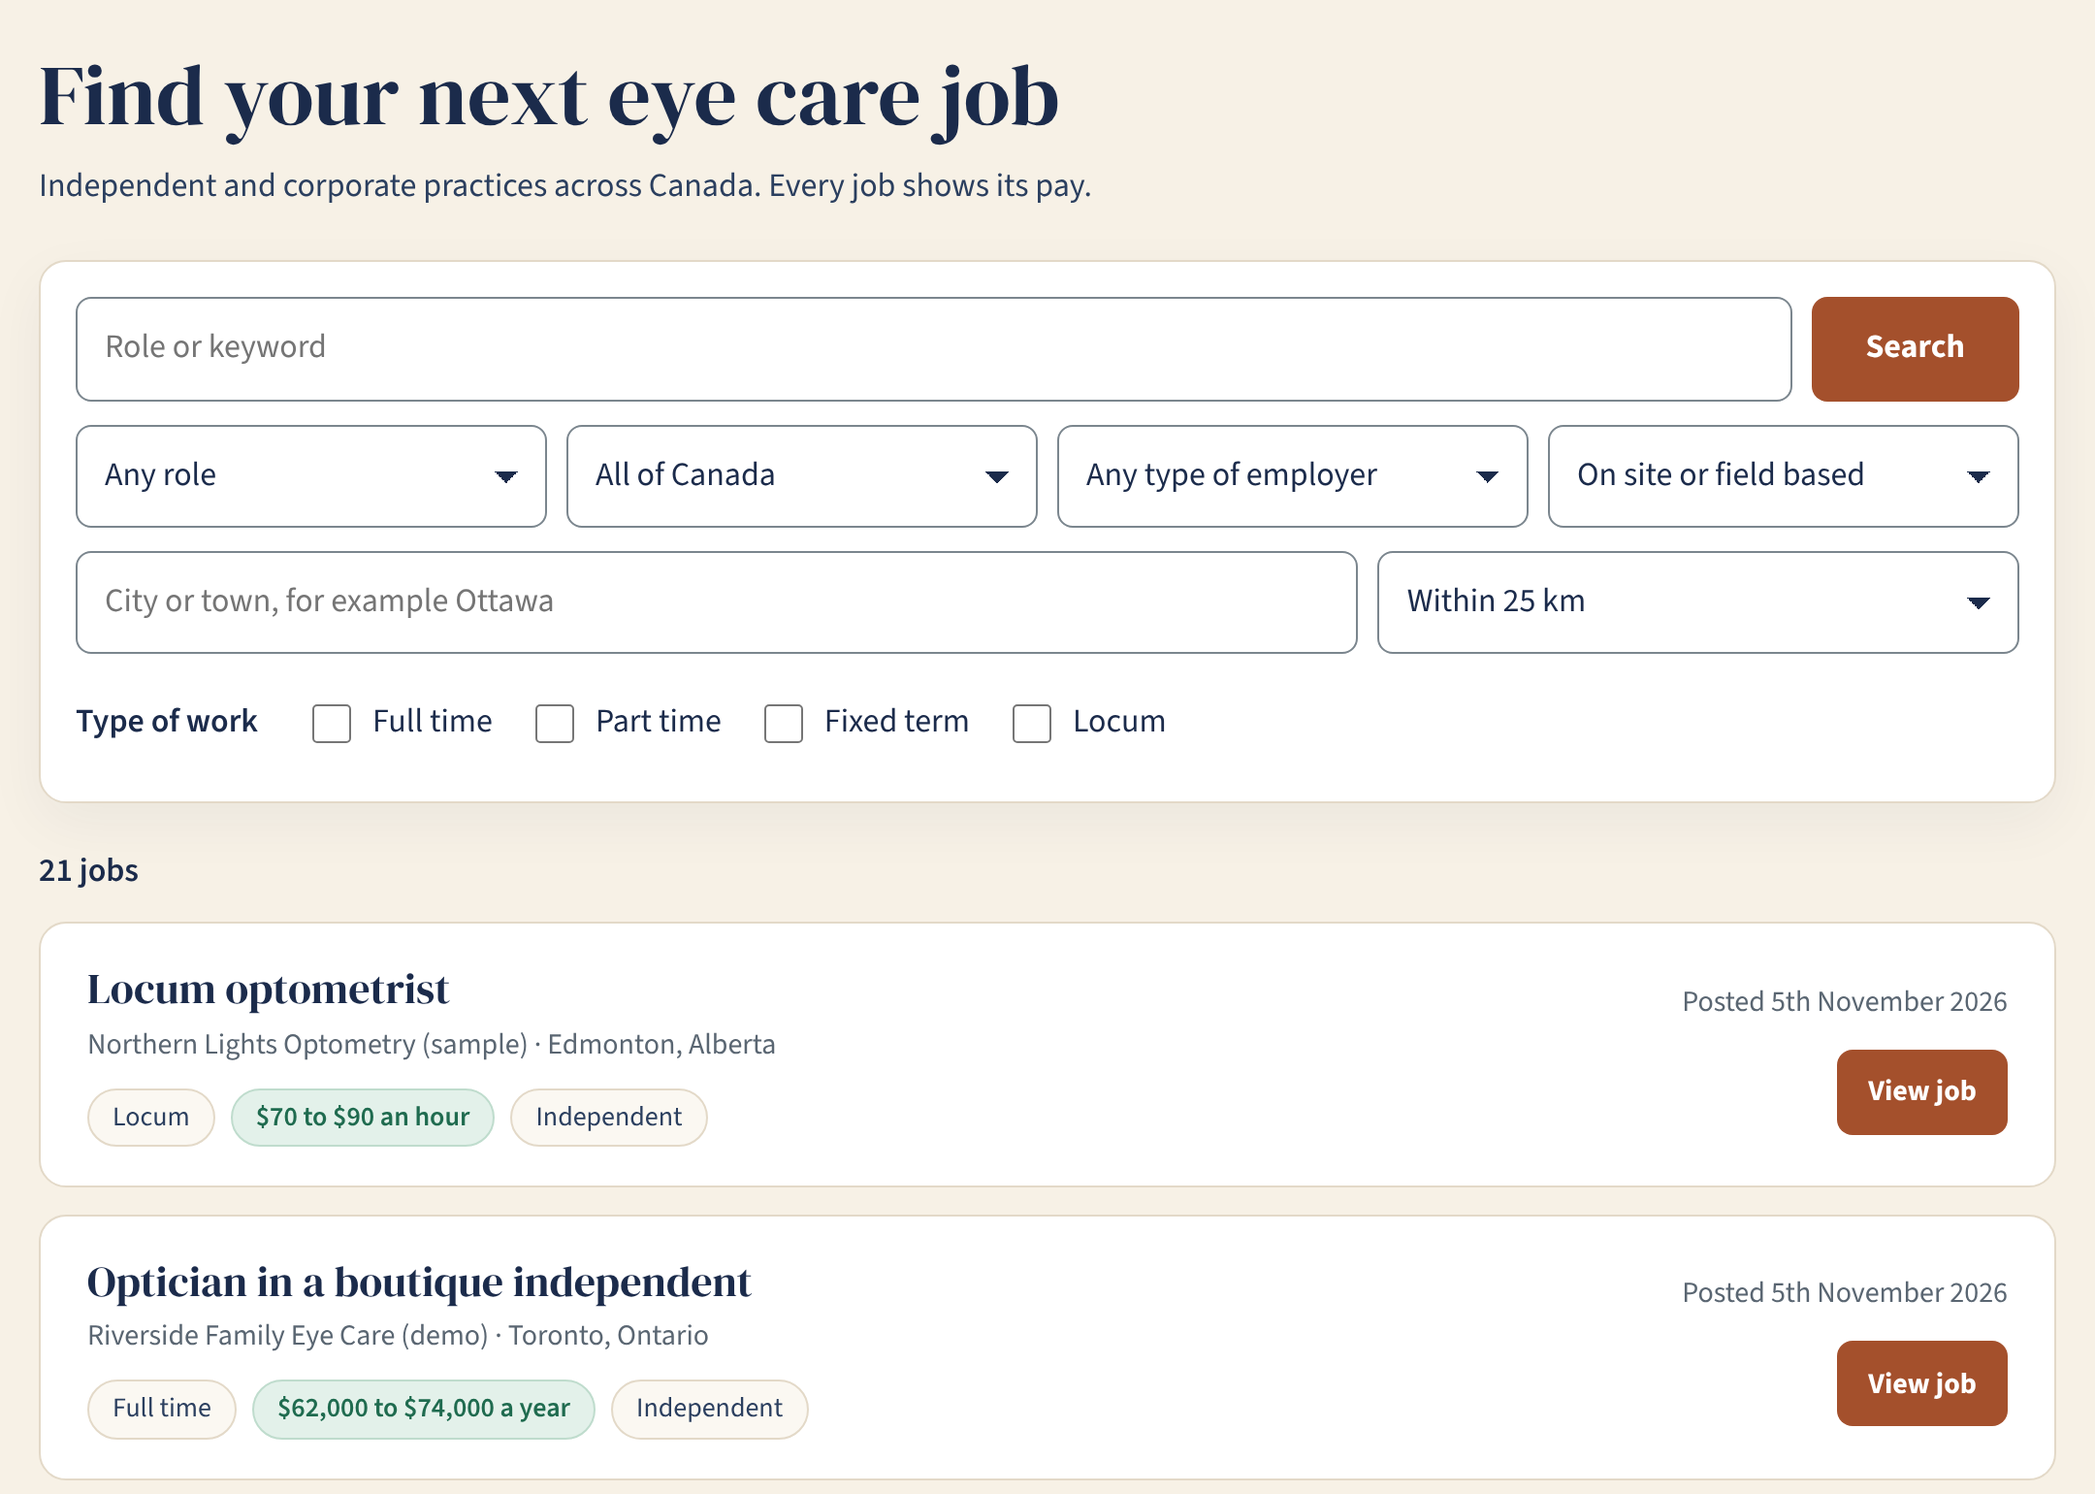
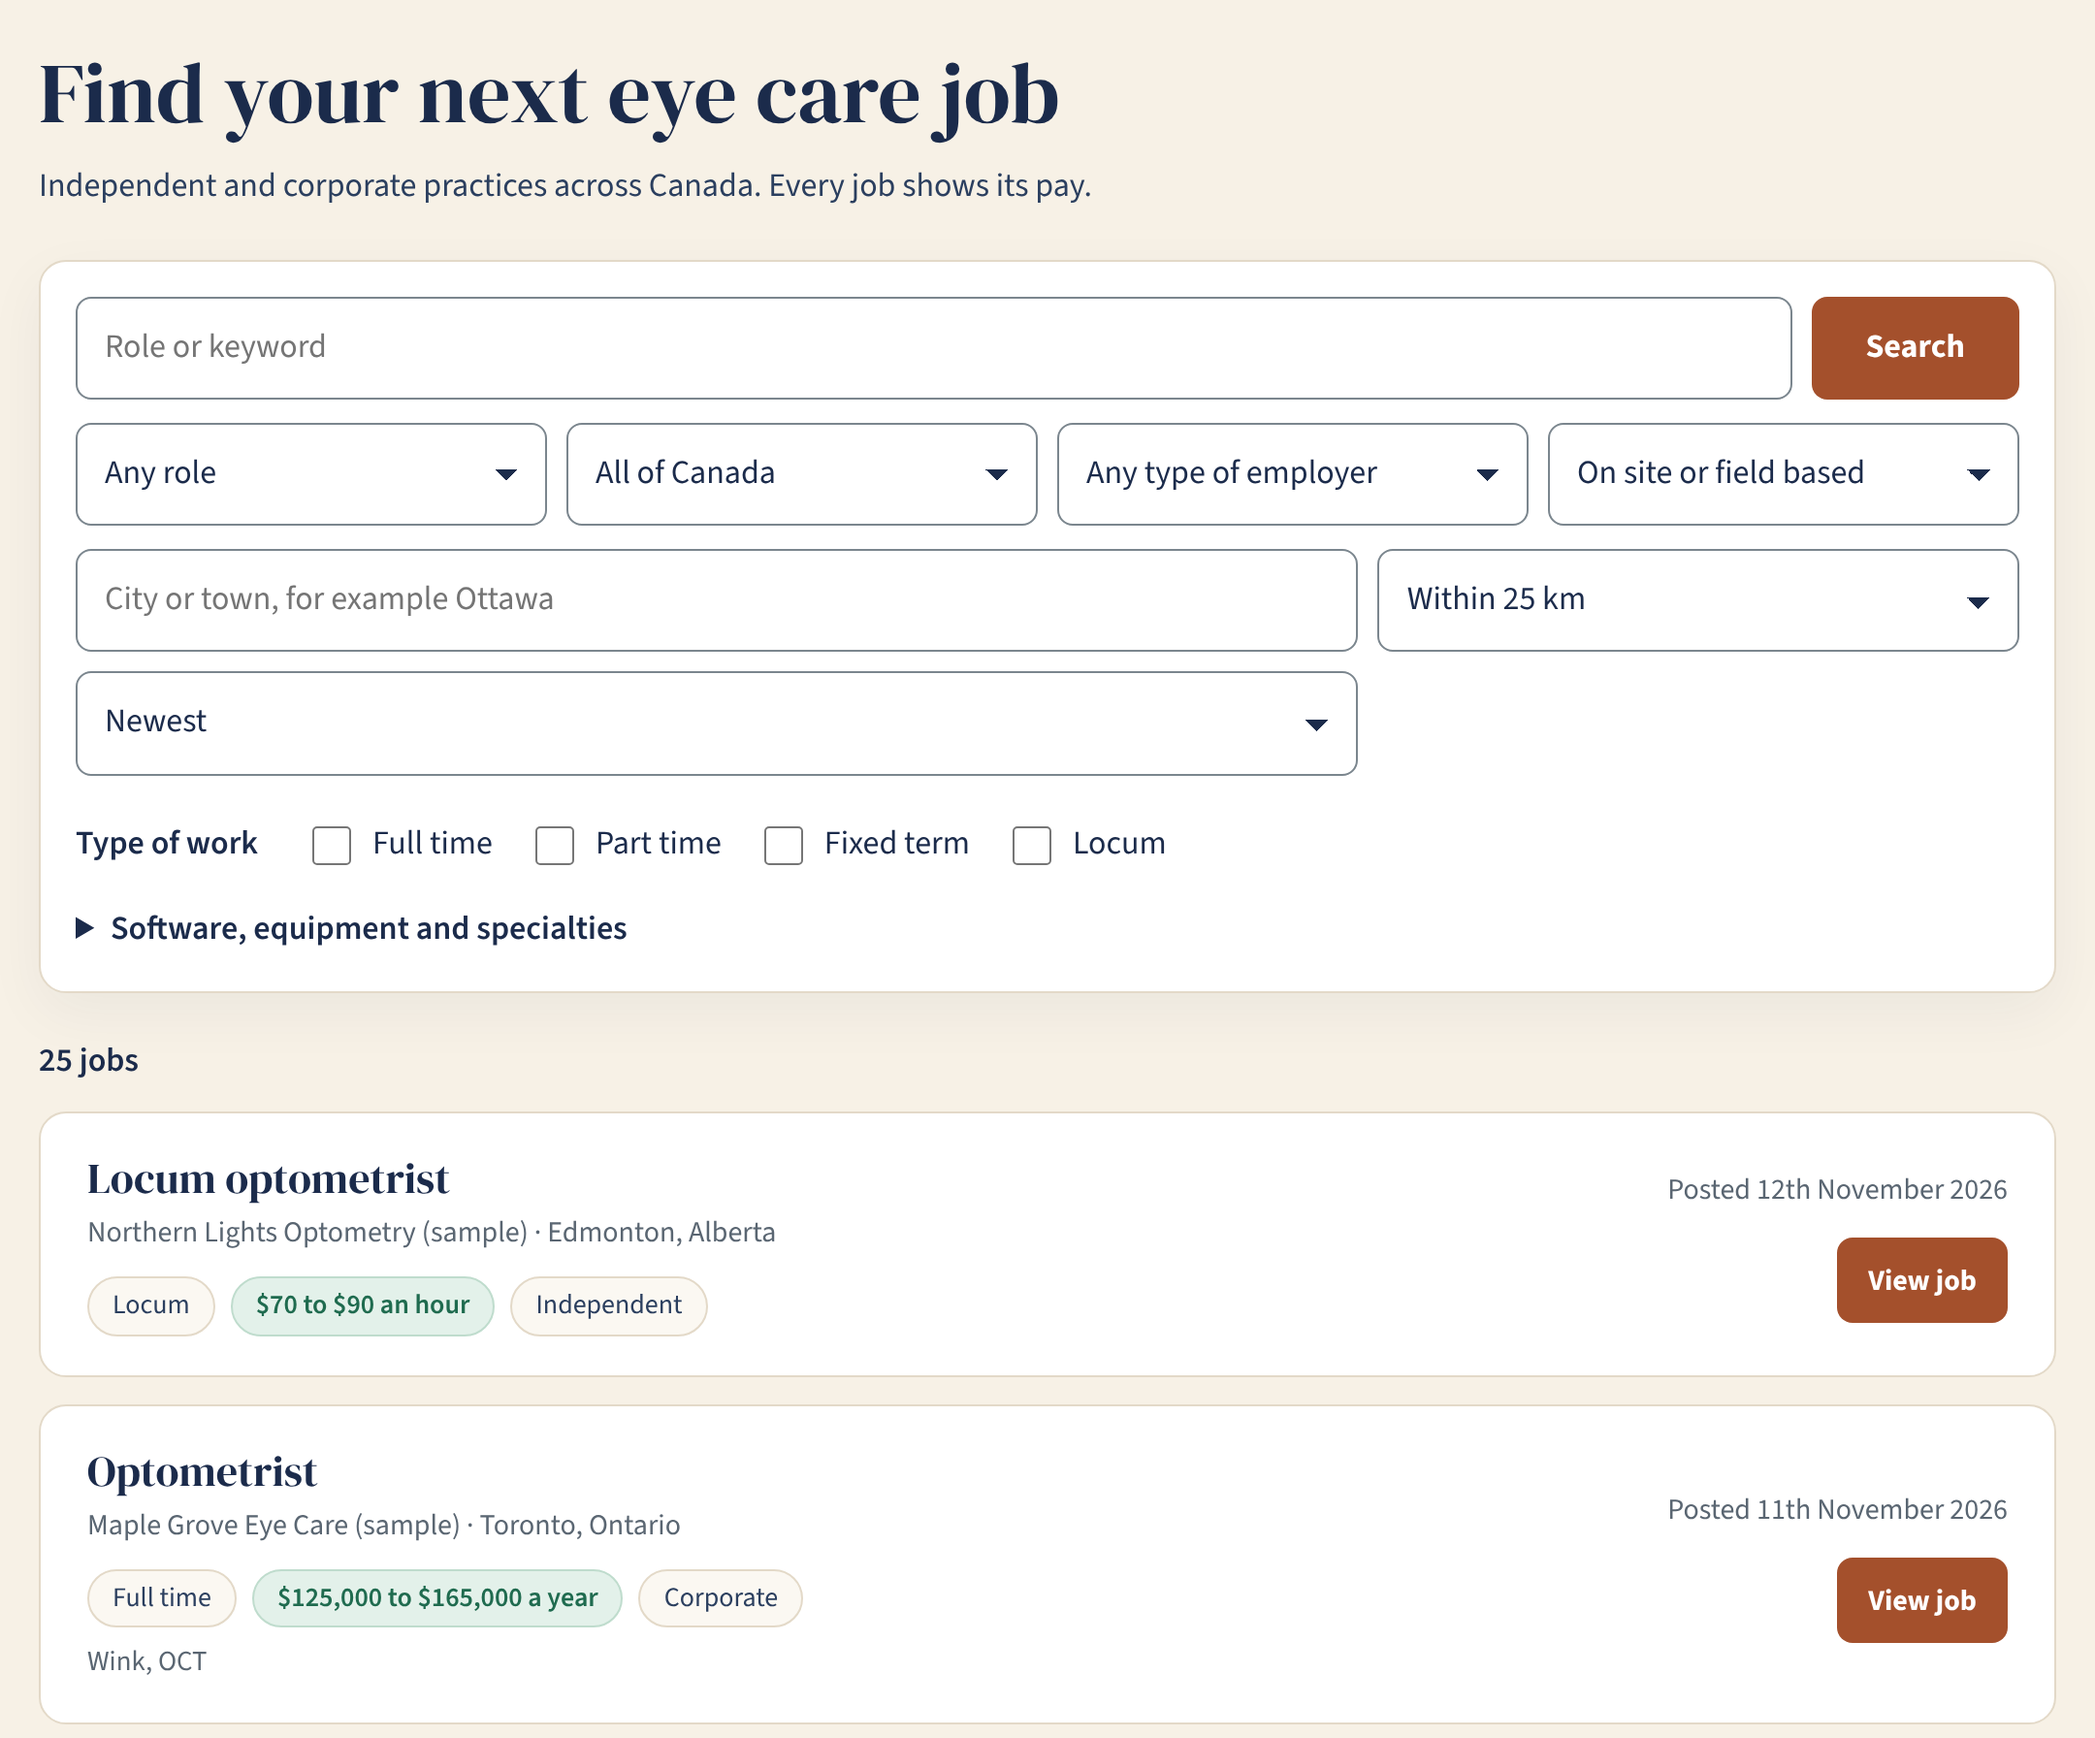
Remove 26 small brown headings that only repeated the page name; report links grouped on the job page; new home page search picture
Kept in brown where they carry information: clinic name, the job a page is about, home page audience labels, tile labels.

Claude-Session: https://claude.ai/code/session_01K4dgNP3jRUzwbDJ37u66dM

Changed region(s): [[0.0, 0.5299, 0.9926, 0.9662], [0.0, 0.0312, 0.9926, 0.4987], [0.8685, 0.9039, 0.9616, 0.9662]]

diff --git a/components/PreLaunchHome.tsx b/components/PreLaunchHome.tsx
@@ -33,7 +33,7 @@ export default function PreLaunchHome() {
             <p className="lh-shotslede">Search by role, province, type of employer and distance, then see the pay before you open a job. These are sample screens with sample clinics and jobs. Real jobs take their place when Kestrel opens.</p>
             <div className="lh-shotgrid">
               <figure>
-                <Image src="/home/sample-search.png" alt="The Kestrel job search page, with a search box, filters for role, province, employer type, city and distance, and the first jobs listed with their pay." width={2160} height={1540} sizes="(max-width: 860px) 100vw, 620px" />
+                <Image src="/home/sample-search.png" alt="The Kestrel job search page, with a search box, filters for role, province, employer type, city and distance, and the first jobs listed with their pay." width={2160} height={1792} sizes="(max-width: 860px) 100vw, 620px" />
                 <figcaption>Search and filter. Every job card shows its pay.</figcaption>
               </figure>
               <figure>

diff --git a/app/help/page.tsx b/app/help/page.tsx
@@ -29,7 +29,6 @@ export default async function Help() {
       <script type="application/ld+json" dangerouslySetInnerHTML={{ __html: JSON.stringify(helpFaqJsonLd(HELP)).replace(/</g, "\\u003c") }} />
       <main id="main" tabIndex={-1} className="app">
         <div className="wrap narrow">
-          <p className="kicker">Help centre</p>
           <h1>Help for people using Kestrel</h1>
           <p className="lede2">Short answers and step by step guides for candidates and clinics who have an account. Open a heading to read it. Looking for hiring advice? Try the <Link href="/blog">blog</Link>. Cannot find what you need? <Link href="/contact">Contact us</Link>.</p>
           {!open && <p className="note">Kestrel is opening soon. These answers describe how it works once you have an account.</p>}

diff --git a/app/jobs/[id]/page.tsx b/app/jobs/[id]/page.tsx
@@ -119,8 +119,10 @@ export default async function JobPage({ params }: { params: Promise<{ id: string
                   </>
                 )}
               </section>
-              <p className="reportlink"><Link href={`/jobs/${job.id}/report`}><Icon name="warning" />Report this job</Link></p>
-              <p className="help reportpolicy"><Link href="/fake-jobs">How we handle reports of fake jobs</Link></p>
+              <div className="reportbox">
+                <p className="reportlink"><Link href={`/jobs/${job.id}/report`}><Icon name="warning" />Report this job</Link></p>
+                <p className="reportpolicy"><Link href="/fake-jobs">How we handle reports of fake jobs</Link></p>
+              </div>
             </aside>
           </div>
         </div>

diff --git a/app/admin/page.tsx b/app/admin/page.tsx
@@ -20,7 +20,6 @@ export default async function AdminHome({ searchParams }: { searchParams: Promis
       <AppBar session={session} current="/admin" />
       <main id="main" tabIndex={-1} className="app">
         <div className="wrap">
-          <p className="kicker">Admin</p>
           <h1>Overview</h1>
           <p className="lede2">How Kestrel is doing. Only your account can open this page.</p>
           <p className="help">More tools: <Link href="/admin/found">Found listings</Link>, for jobs from a clinic&apos;s own careers page, and <Link href="/admin/post-for-clinic">Post for a clinic</Link>, for when a clinic is having trouble with the form, and <Link href="/admin/outreach">Outreach</Link>, for the clinic email sequence.</p>

diff --git a/app/admin/suppressions/page.tsx b/app/admin/suppressions/page.tsx
@@ -36,7 +36,6 @@ export default async function Suppressions({ searchParams }: { searchParams: Pro
       <AppBar session={session} current="/admin/suppressions" />
       <main id="main" tabIndex={-1} className="app">
         <div className="wrap narrow">
-          <p className="kicker">Admin</p>
           <h1>Do not email list</h1>
           <p className="lede2">Addresses here never receive marketing or outreach email from Kestrel, including about jobs posted later. People are added automatically when they unsubscribe. Emails about an account or an application, such as a new applicant, are not marketing and still go out.</p>
           {notice && NOTICES[notice] && <p className="notice" role="status">{NOTICES[notice]}</p>}

diff --git a/app/admin/found/page.tsx b/app/admin/found/page.tsx
@@ -68,7 +68,6 @@ export default async function FoundListings({ searchParams }: { searchParams: Pr
       <main id="main" tabIndex={-1} className="app">
         <div className="wrap narrow">
           <p className="back"><Link href="/admin">Back to the overview</Link></p>
-          <p className="kicker">Admin</p>
           <h1>Found listings</h1>
           <p className="lede2">Jobs from a clinic&apos;s own careers page, for clinics that are not on Kestrel yet. Paste the page, check what the reader found against the page, then save it. A found listing comes down by itself after 21 days unless the clinic claims it.</p>
           {notice && NOTICES[notice] && <p className="notice" role="status">{NOTICES[notice]}</p>}

diff --git a/app/admin/post-for-clinic/page.tsx b/app/admin/post-for-clinic/page.tsx
@@ -32,7 +32,6 @@ export default async function PostForClinic({ searchParams }: { searchParams: Pr
       <AppBar session={session} current="/admin/post-for-clinic" />
       <main id="main" tabIndex={-1} className="app">
         <div className="wrap narrow">
-          <p className="kicker">Admin</p>
           <h1>Post a job for a clinic</h1>
           <p className="lede2">For when a clinic is having trouble with the form. The job belongs to the clinic, follows the same rules as any post, and goes to the review queue for you to approve. This is separate from Found listings.</p>
           {notice && NOTICES[notice] && <p className="notice" role="status">{NOTICES[notice]}</p>}

diff --git a/app/admin/outreach/page.tsx b/app/admin/outreach/page.tsx
@@ -52,7 +52,6 @@ export default async function Outreach({ searchParams }: { searchParams: Promise
       <AppBar session={session} current="/admin/outreach" />
       <main id="main" tabIndex={-1} className="app">
         <div className="wrap">
-          <p className="kicker">Admin</p>
           <h1>Clinic outreach</h1>
           <p className="lede2">
             {LAST_STEP} emails over about 5 weeks (day 1, 8, 18 and 32), each from a different angle, to an address the clinic published for business enquiries. The sequence stops by itself when a clinic unsubscribes, joins the waitlist, opens an account or claims a listing. If they reply, stop it here.

diff --git a/app/candidate/alerts/page.tsx b/app/candidate/alerts/page.tsx
@@ -31,7 +31,6 @@ export default async function Alerts() {
       <AppBar session={session} current="/candidate/alerts" />
       <main id="main" tabIndex={-1} className="app">
         <div className="wrap narrow">
-          <p className="kicker">Job alerts</p>
           <h1>Hear about new jobs first</h1>
           <p className="lede2">Tell us what you are looking for and we will email you when a matching job is posted. You choose how often, daily, weekly or monthly, and every email has an unsubscribe link. These are emails you set up yourself, so they do not depend on the news box you may have ticked at sign up.</p>
           {paused && (

diff --git a/app/candidate/profile/page.tsx b/app/candidate/profile/page.tsx
@@ -29,7 +29,6 @@ export default async function CandidateProfilePage({ searchParams }: { searchPar
       <AppBar session={session} current="/candidate/profile" />
       <main id="main" tabIndex={-1} className="app">
         <div className="wrap narrow">
-          <p className="kicker">My profile</p>
           <h1>Your profile and resume</h1>
           <p className="lede2">Save your resume once, then apply to any job in a few clicks. Your profile is private. A clinic sees only what you send with an application.</p>
           {notice === "cv-deleted" && <p className="notice" role="status">Your resume is deleted.</p>}

diff --git a/app/clinic/profile/page.tsx b/app/clinic/profile/page.tsx
@@ -18,7 +18,6 @@ export default async function ClinicProfile({ searchParams }: { searchParams: Pr
       <AppBar session={session} current="/clinic/profile" />
       <main id="main" tabIndex={-1} className="app">
         <div className="wrap narrow">
-          <p className="kicker">Clinic profile</p>
           <h1>{employer ? "Your clinic" : "Set up your clinic"}</h1>
           {!employer && from === "post" && (
             <p className="note" role="status"><strong>You must set up your clinic before posting a job.</strong> It takes about 2 minutes. When you save it, you can post your first job straight away.</p>

diff --git a/app/admin/waitlist/page.tsx b/app/admin/waitlist/page.tsx
@@ -30,7 +30,6 @@ export default async function Waitlist() {
       <AppBar session={session} current="/admin/waitlist" />
       <main id="main" tabIndex={-1} className="app">
         <div className="wrap">
-          <p className="kicker">Admin</p>
           <h1>Waitlist</h1>
           <p className="lede2">
             {count ?? rows.length} {(count ?? rows.length) === 1 ? "person" : "people"} on the list. <a href="/admin/waitlist.csv">Download the ready to email list</a> (confirmed, not unsubscribed, with each person's unsubscribe link) or <a href="/admin/waitlist.csv?all=1">everyone, with a status column</a>
